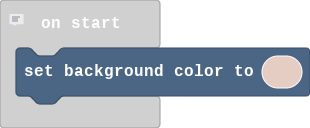
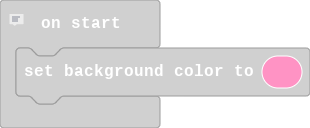
Update main.blocks, main.ts

diff --git a/main.ts b/main.ts
@@ -1,2 +1,2 @@
 // Don't forget to comment your code as you work!
-scene.setBackgroundColor(13)
+scene.setBackgroundColor(3)
